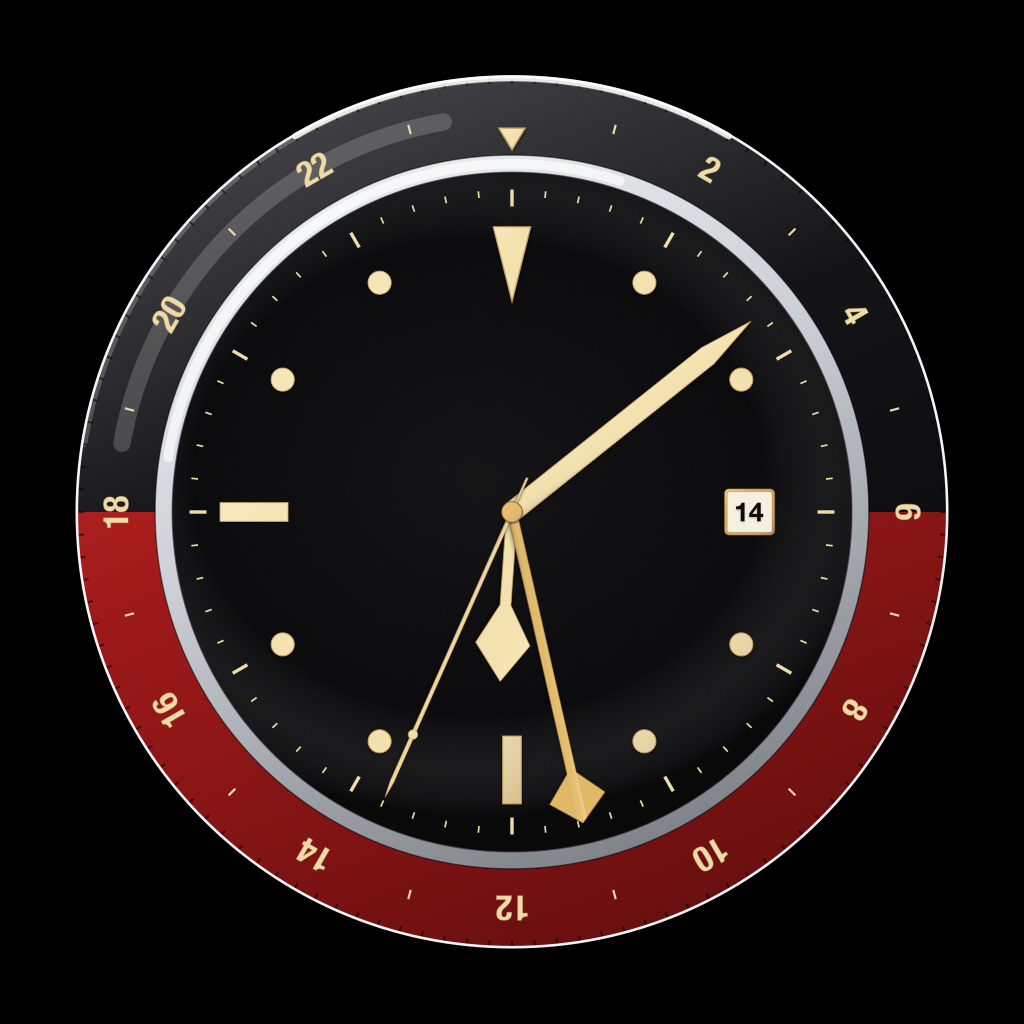
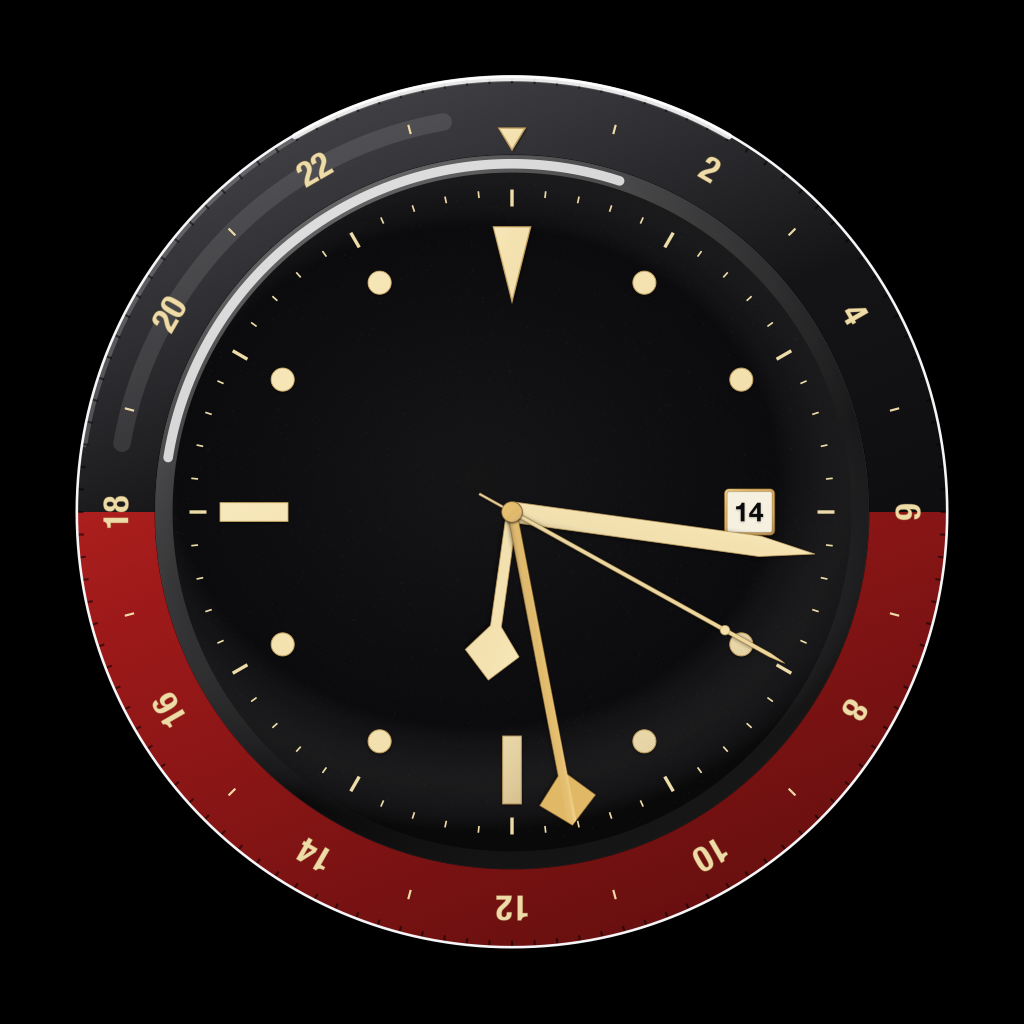
Story 2.1.4: Coke GMT sapphire crystal fix (renders against dial-black)
Caleb's Pass-3 review: "You got that transparency right but applied
it at the wrong ring. It needs to be that inner gray ring inside the
bezel closest to the dial."

Root cause: the crystal annulus WAS in the correct location (between
dialRadius 0.78 and bezelInnerR 0.82), but the dialFaceLayer only
extended to dialRadius = 0.78. So the translucent white gradient
painted against the canvas background (pure black), giving a
silver-grey-ring appearance instead of glass-over-dial.

Fix (4 changes):

1. dialFaceLayer extends to bezelInnerR. The matte black dial now
   fills the entire area inside the bezel inner edge, including the
   chamfer annulus where the crystal lives. Markers/hands still
   positioned via dialRadius (0.78) so the dial composition is
   unchanged — only the background fill is wider.

2. Crystal layers re-z-ordered ABOVE the dial face. crystalGlassLayer
   and crystalRimHighlight are now added after dialFaceLayer +
   dialVignetteLayer + dialGrainLayer in the install stack. The
   translucent gradient paints OVER the dial-black, reading as
   "transparent glass showing the dial through" — the actual
   sapphire-crystal effect.

3. Boosted crystal alpha. Gradient peak 0.28 → 0.38, rim highlight
   0.65 → 0.78. Sitting over dark dial-black requires more alpha
   for visible intensity than the prior canvas-background placement.

4. Toned down bezelMidArcSheen. Alpha 0.18 → 0.10. The bezel keeps
   its curved-surface highlight but no longer competes with the
[…]

diff --git a/WatchesCore/Dials/CokeGMT/CokeGMTRenderer.swift b/WatchesCore/Dials/CokeGMT/CokeGMTRenderer.swift
@@ -268,12 +268,14 @@ public final class CokeGMTRenderer: DialRenderer {
         bezelCeramicSheen.lineCap = .round
         canvasBackground.addSublayer(bezelCeramicSheen)
 
-        // Pass-2 Element 22: mid-arc directional sheen at the bezel
-        // centerline. Stacks with the top-edge band + radial bloom to
-        // give the ceramic its "rounded surface lit from upper-left"
-        // reading.
+        // Pass-2 Element 22 (toned down in Pass 3.2 — was competing
+        // with the sapphire-crystal effect for the upper-left "where's
+        // the bright highlight" eye-catch). Reduced from alpha 0.18 to
+        // 0.10 so the bezel reads as a curved ceramic surface but the
+        // crystal effect on the inner ring stays the dominant
+        // translucent feature.
         bezelMidArcSheen.fillColor = nil
-        bezelMidArcSheen.strokeColor = NSColor(white: 1.0, alpha: 0.18).cgColor
+        bezelMidArcSheen.strokeColor = NSColor(white: 1.0, alpha: 0.10).cgColor
         bezelMidArcSheen.lineCap = .round
         canvasBackground.addSublayer(bezelMidArcSheen)
 
@@ -313,28 +315,26 @@ public final class CokeGMTRenderer: DialRenderer {
         chamferRingLayer.strokeColor = NSColor(white: 0.0, alpha: 0.45).cgColor
         canvasBackground.addSublayer(chamferRingLayer)
 
-        // Pass-3: sapphire crystal annulus (between dialRadius and
-        // bezelInnerR). A translucent CAGradientLayer that brightens
-        // toward the upper-left to suggest the glass dome catching light.
+        // Pass 3.2: crystalGlassLayer + crystalRimHighlight are configured
+        // here but ADDED LATER (after dialFaceLayer + grain) so they
+        // render ABOVE the dial-black background, making the
+        // translucent gradient read as "glass-over-dial" rather than
+        // "silver ring against canvas". See the "// crystal install
+        // (post-dial)" block below.
         crystalGlassLayer.type = .axial
         crystalGlassLayer.startPoint = CGPoint(x: 0.20, y: 1.00)
         crystalGlassLayer.endPoint = CGPoint(x: 0.85, y: 0.05)
         crystalGlassLayer.colors = [
-            NSColor(white: 1.0, alpha: 0.28).cgColor,
-            NSColor(white: 1.0, alpha: 0.10).cgColor,
+            NSColor(white: 1.0, alpha: 0.38).cgColor,    // boosted from 0.28
+            NSColor(white: 1.0, alpha: 0.14).cgColor,
             NSColor(white: 1.0, alpha: 0.0).cgColor,
-            NSColor(white: 0.6, alpha: 0.08).cgColor,
+            NSColor(white: 0.6, alpha: 0.10).cgColor,
         ]
         crystalGlassLayer.locations = [0.0, 0.35, 0.65, 1.0]
-        canvasBackground.addSublayer(crystalGlassLayer)
 
-        // Pass-3: bright refraction arc on the upper-left rim of the
-        // crystal — the bright sliver where studio light catches the
-        // domed edge of the sapphire glass.
         crystalRimHighlight.fillColor = nil
-        crystalRimHighlight.strokeColor = NSColor(white: 1.0, alpha: 0.65).cgColor
+        crystalRimHighlight.strokeColor = NSColor(white: 1.0, alpha: 0.78).cgColor
         crystalRimHighlight.lineCap = .round
-        canvasBackground.addSublayer(crystalRimHighlight)
 
         polishedRimLayer.fillColor = nil
         polishedRimLayer.strokeColor = CokeGMTPalette.caseSteelHighlight
@@ -374,6 +374,13 @@ public final class CokeGMTRenderer: DialRenderer {
         dialGrainLayer.contentsGravity = .resize
         dialGrainLayer.opacity = 0.04
         canvasBackground.addSublayer(dialGrainLayer)
+
+        // crystal install (post-dial). Sapphire crystal annulus + its
+        // refraction rim highlight are added AFTER the dial face so they
+        // overlay the dial-black background — reads as transparent glass
+        // showing the dial through, not silver chamfer.
+        canvasBackground.addSublayer(crystalGlassLayer)
+        canvasBackground.addSublayer(crystalRimHighlight)
 
         // Minute track.
         minuteTrackMinorTicks.fillColor = nil
@@ -774,18 +781,33 @@ public final class CokeGMTRenderer: DialRenderer {
         innerEdgeStroke.path = CGPath(ellipseIn: dialRect, transform: nil)
         innerEdgeStroke.lineWidth = max(0.4, caseRadius * 0.003)
 
-        // Dial face fill.
+        // Pass 3.2: the dial face NOW EXTENDS to bezelInnerR (not the
+        // smaller dialRadius). This means the chamfer annulus where the
+        // sapphire crystal lives is filled with dial-black underneath,
+        // so the crystal's translucent gradient overlay reads as
+        // "glass-over-dial" rather than "silver-grey ring" (which is
+        // what happened when the crystal painted against the canvas
+        // background). Markers/hands stay positioned via `dialRadius`
+        // (0.78) so the dial composition isn't disturbed.
+        let dialFaceR = bezelInnerR
+        let dialFaceRect = CGRect(
+            x: caseCenter.x - dialFaceR, y: caseCenter.y - dialFaceR,
+            width: dialFaceR * 2, height: dialFaceR * 2
+        )
         dialFaceLayer.frame = CGRect(origin: .zero, size: canvas)
-        dialFaceLayer.path = CGPath(ellipseIn: dialRect, transform: nil)
+        dialFaceLayer.path = CGPath(ellipseIn: dialFaceRect, transform: nil)
 
-        // Dial vignette gradient masked to dial.
-        dialVignetteLayer.frame = dialRect
+        // Dial vignette extends to the new dial-face size too.
+        dialVignetteLayer.frame = dialFaceRect
         let vMask = CAShapeLayer()
         vMask.frame = dialVignetteLayer.bounds
-        vMask.path = CGPath(ellipseIn: CGRect(origin: .zero, size: dialRect.size), transform: nil)
+        vMask.path = CGPath(ellipseIn: CGRect(origin: .zero, size: dialFaceRect.size), transform: nil)
         vMask.fillColor = NSColor.white.cgColor
         dialVignetteLayer.mask = vMask
 
+        // Grain stays at dialRadius (the textural matte black is only
+        // on the main dial area where markers live, not in the crystal
+        // annulus).
         dialGrainLayer.frame = dialRect
         let gMask = CAShapeLayer()
         gMask.frame = dialGrainLayer.bounds
